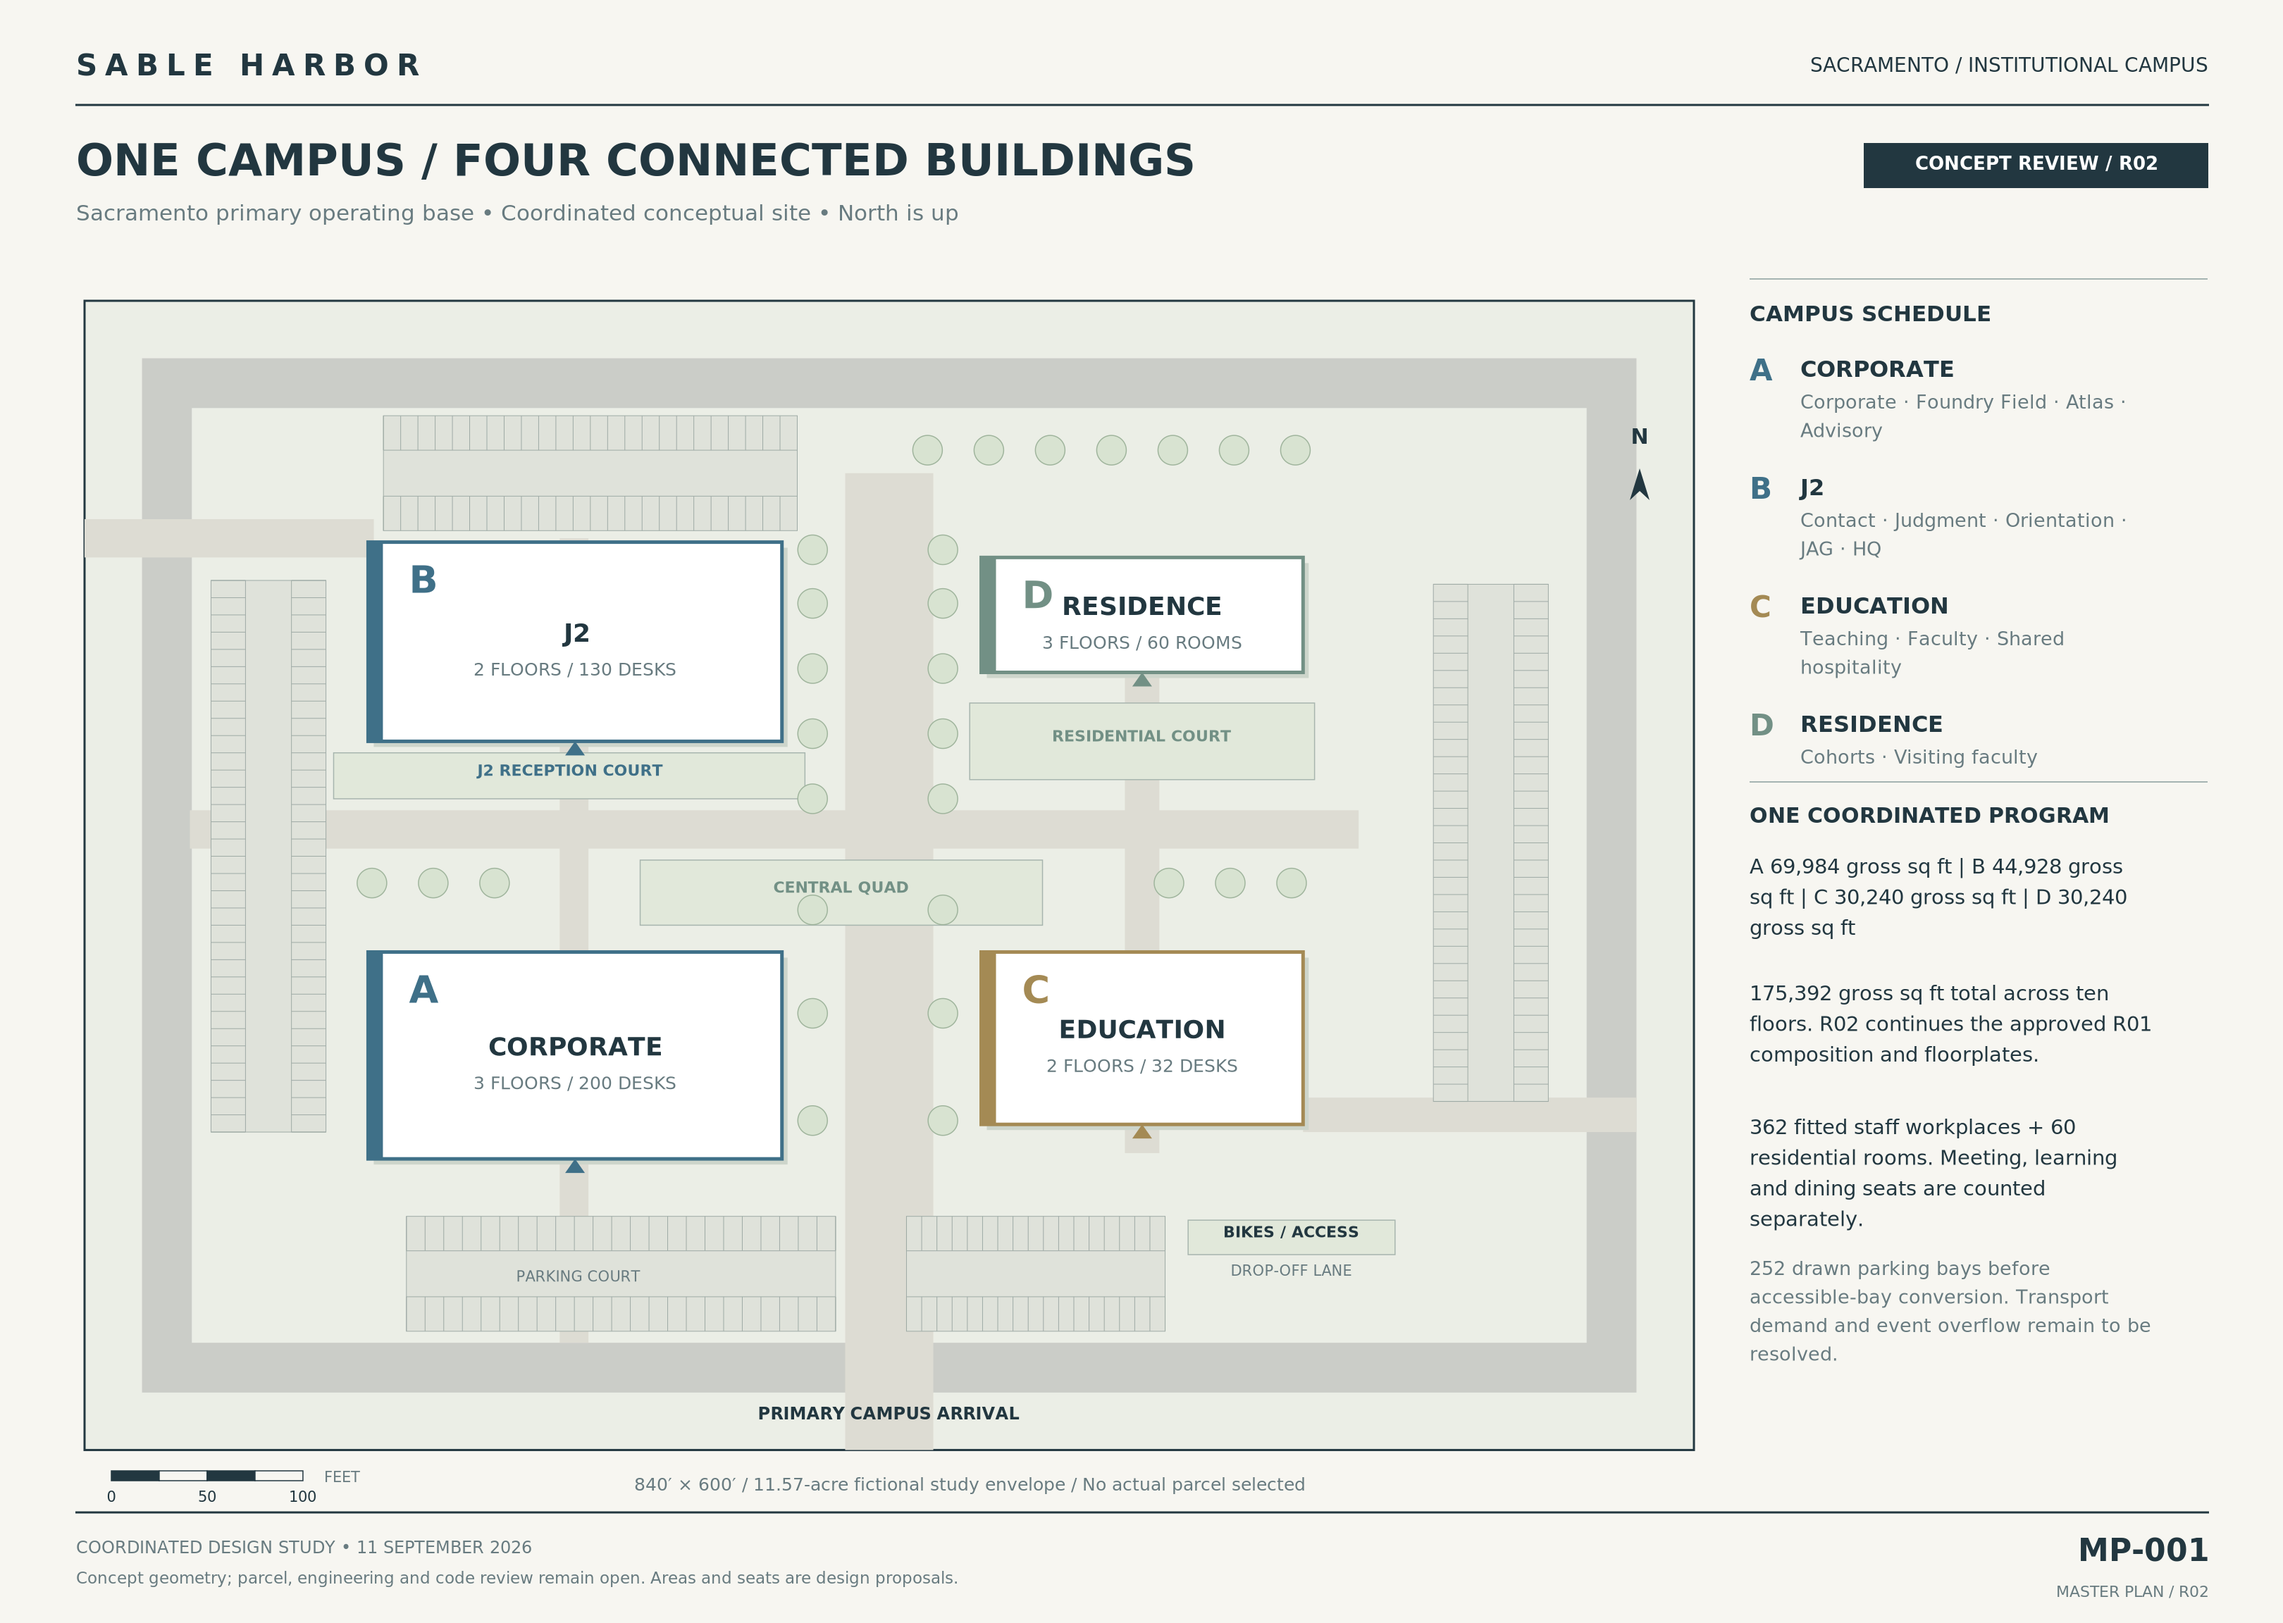
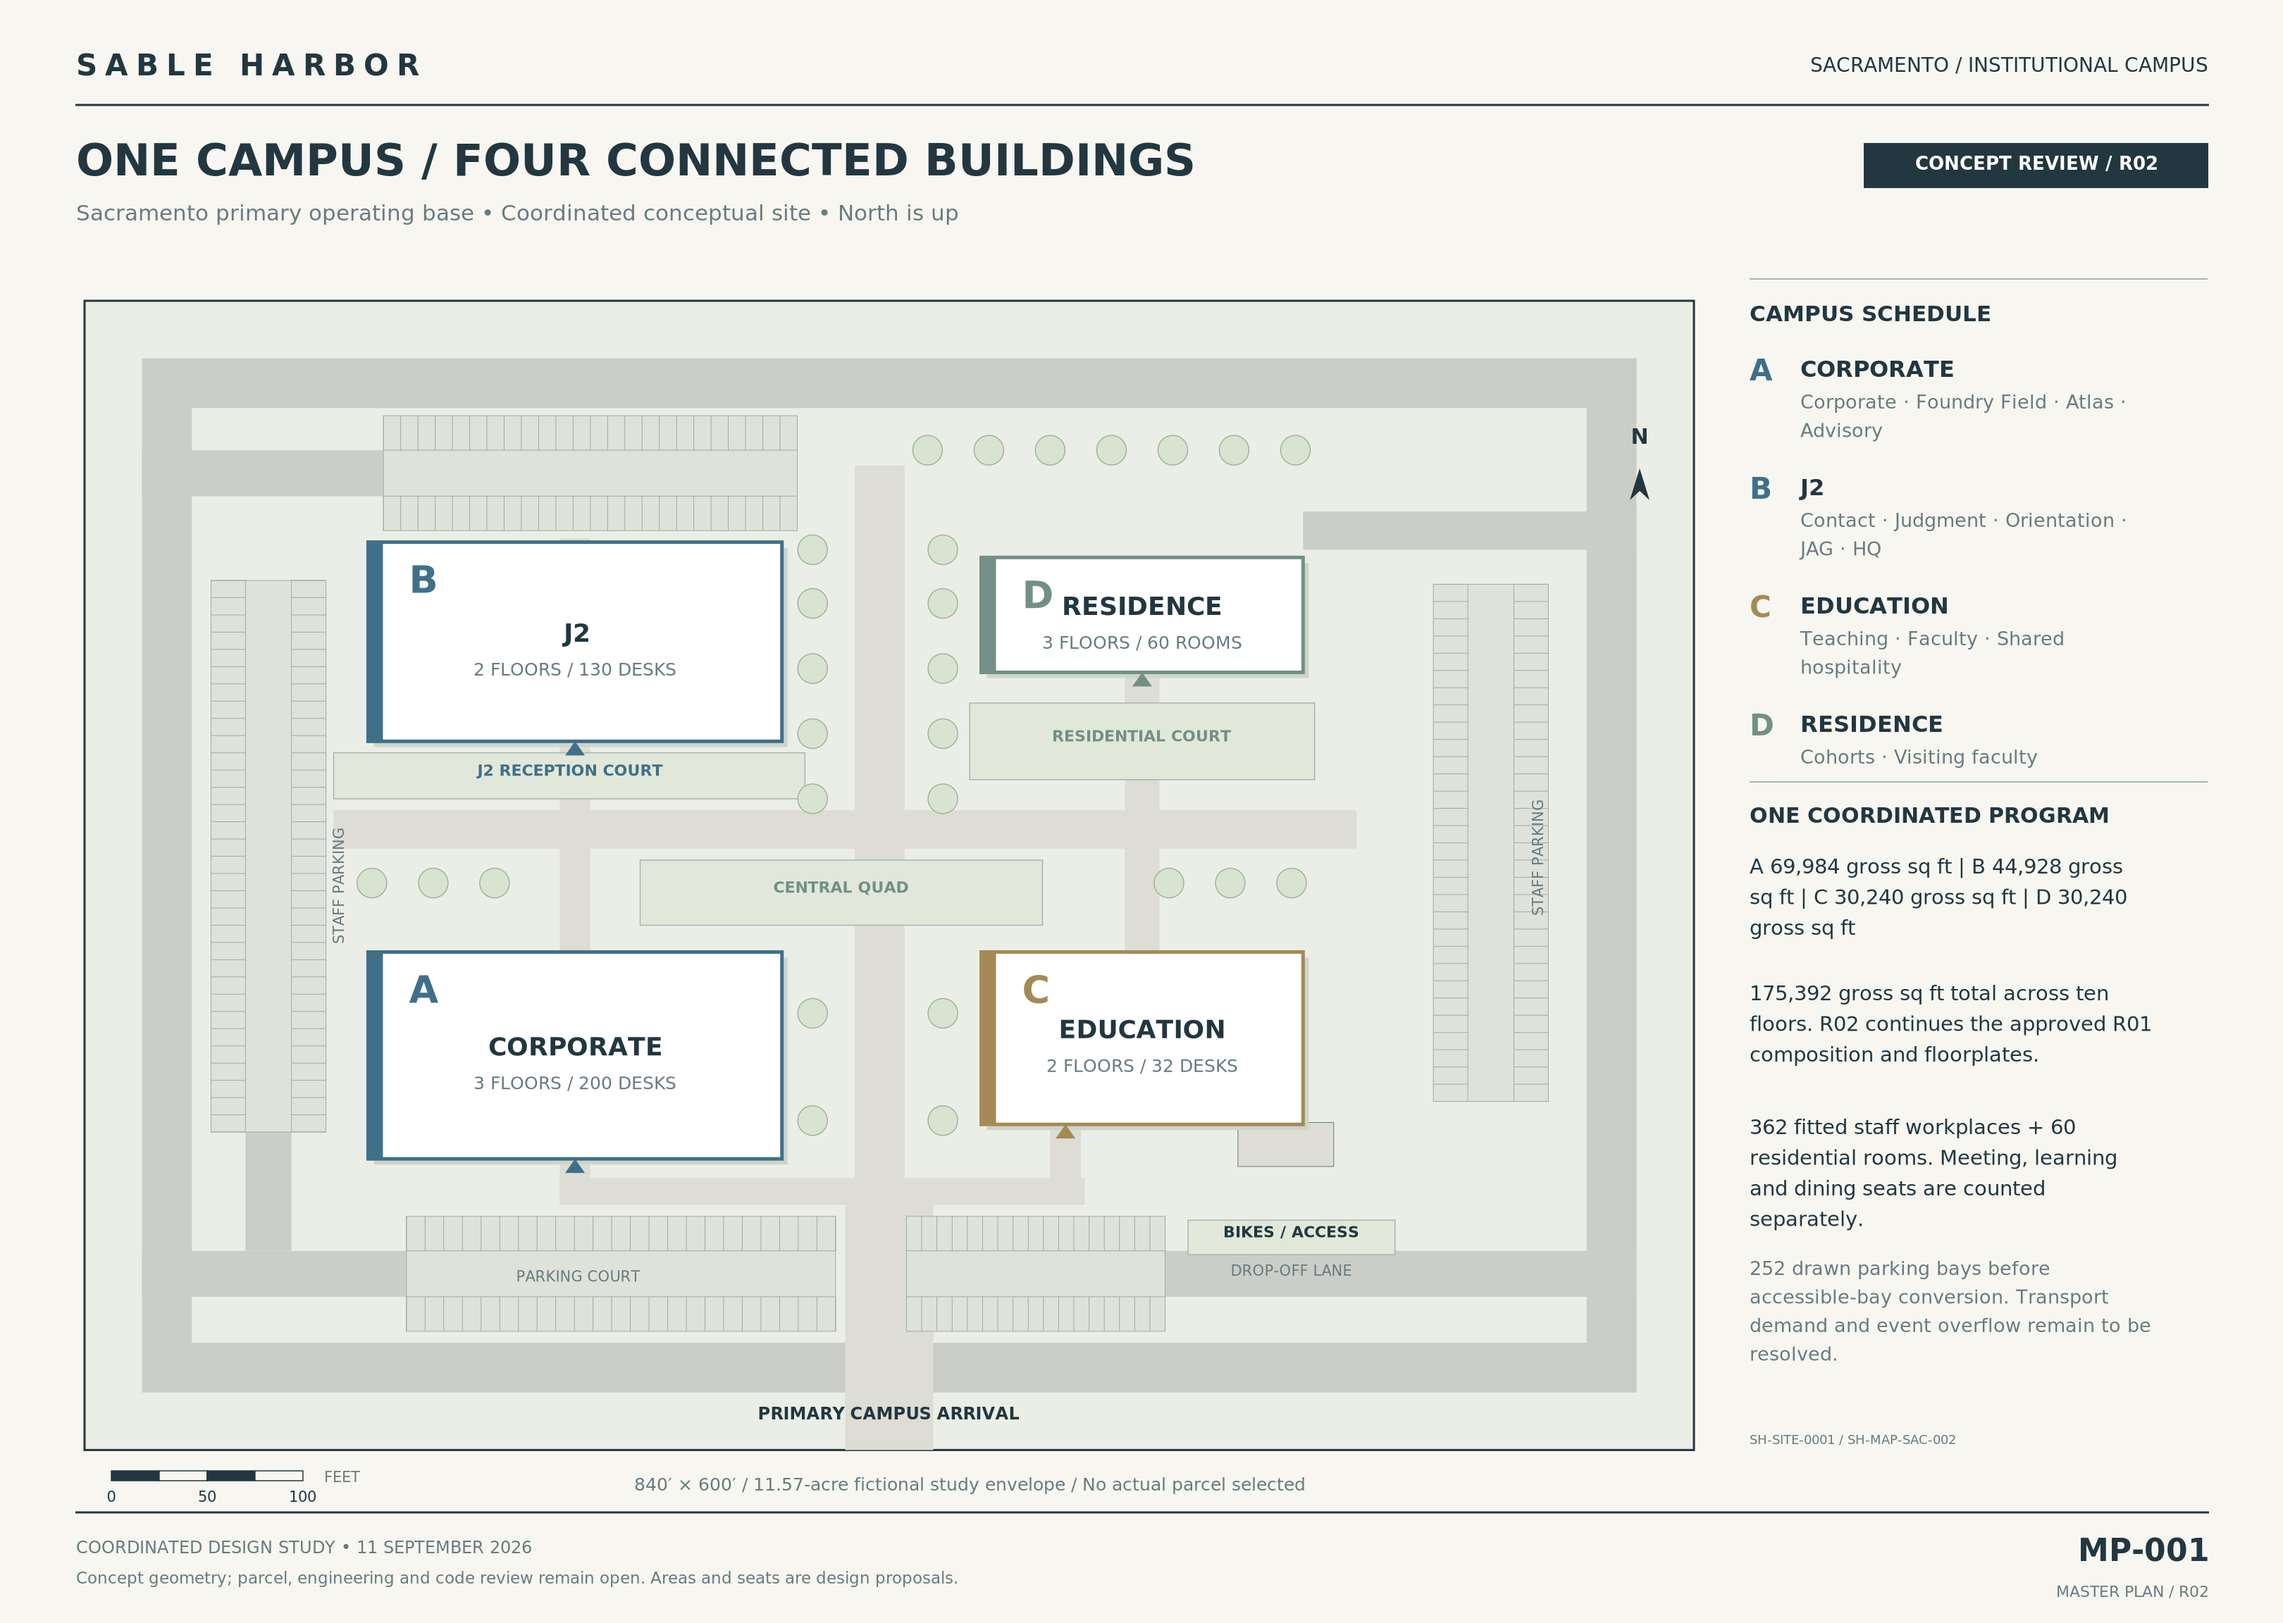
qa: pass first R02 master against four approved R01 references

diff --git a/geospatial/facilities/qa/R01_FIRST_GATE_REVIEW.md b/geospatial/facilities/qa/R01_FIRST_GATE_REVIEW.md
@@ -1,14 +1,13 @@
-# First R02 successor gate — correction required
+# R01 first successor master — passed
 
-The first master retains the four-building composition and sheet architecture, but the fidelity gate is not passed. All four originals and the successor were inspected individually at full resolution; four full-resolution side-by-side images and a master overlay are saved alongside this report.
+The fifth candidate for SH-MAP-SAC-002 passes the first-successor visual gate. The exact PNG, SVG and PDF are retained as `R01_FIRST_CANDIDATE.*`; hashes, build inputs, corrected findings and intentional differences are in [R01_FIRST_GATE_REVIEW.json](R01_FIRST_GATE_REVIEW.json). The original failed review remains available at commit `51d92e1`.
 
-- **R01-G01 — Typography fallback:** fc-match DejaVu Sans returns Liberation Sans. Title ink width1319 vs1585px; title height43 vs51px. Register deterministic matching fonts and retune title/wordmark sizing.
-- **R01-G02 — Subtitle position:** Current subtitle ink y321–350 vs approved290–318; move baseline up31px.
-- **R01-G03 — Site palette:** Sitefield/road overrides differ from measured#ebeee6/#cbcdc8; apply exact palette.
-- **R01-G04 — Building accent strips:** R01 blue/sage/gold left facade strips are absent; restore without changing footprint.
-- **R01-G05 — South arrival and parking:** Current continuous south parking strip crosses central primaryarrival. R01 has distinct west/eastblocks and gap; restore route, parkingcourt and dropoff labels and do not assert252 after altering counts without recount.
-- **R01-G06 — Access composition:** Current west lateral spur reaches siteboundary; original access remains perimeterconnected inside. Original northeast service connection and south dropoff/pedestrian branches missing. Preserve R01 topology or document intentional functional changes.
-- **R01-G07 — Schedule hierarchy:** Coordinated-program body changed from navy to muted and bodywrap differs materially due fallbackfont; restore original factual contrast.
-- **R01-G08 — Trees and support geometry:** Several treepositions shift into centralquad and original small Education service rectangle omitted; restore measured baseline or explicitly justify changed landscape/service design.
+All four approved originals were reviewed at their original 3240 × 2304 resolution, then compared with the final candidate in four saved side-by-side images. The master was also reviewed in a 50% overlay. The candidate PNG and independently rasterized PDF were inspected at 3240 × 2304. The SVG is the editable vector source for the reviewed drawing.
 
-Intentional changes accepted in principle: R02 revision markers, updated successor narrative retaining approved totals, and newly editable SVG/PDF derivatives. These do not approve the unfinished drawings. No bulk floor generation under this gate until unintended drift is corrected.
+Corrections include bundled matching DejaVu fonts, restored subtitle baseline and exact palette, building accent strips, split south parking and clear arrival, restored road and walking connections, darker program text, and restored Education service geometry. Education’s public entrance is 44 ft east of its west wall (campus x512 ft); the x504–520 ft public path meets the bridge ending at x522 ft. Service access aligns separately with its apron.
+
+Intentional derivative differences are R02 markers and continuity prose, a subordinate stable-ID caption, small type-tracking/label-position/wrapping differences, simplified tree circles and regularized planting, and south parking segmentation preserving 252 total bays. Original reference bytes are unchanged. The source package remains conceptual, with no actual parcel or construction status implied.
+
+The four buildings, ten floors, 175,392 gross sq ft, 362 workplaces and 60 residential rooms preserve the approved baseline. Workplaces and rooms remain separate from people, learning and meeting capacity.
+
+This gate permits subsequent sheet generation only. Every subsequent floor and atlas surface still requires its own numerical and visual QA; the earlier 63-sheet review does not apply to R02.

diff --git a/geospatial/facilities/qa/R01_REVIEW_CHECKLIST.md b/geospatial/facilities/qa/R01_REVIEW_CHECKLIST.md
@@ -2,7 +2,7 @@
 
 All four immutable approved PNGs were inspected at their original 3240 × 2304 resolution, and the complete handover and controlling visual addendum were read. [R01_VISUAL_TOKENS.json](R01_VISUAL_TOKENS.json) records exact source hashes, pixel colors, geometry measurements, and explicitly approximate typography. Font identification is a visual estimate; it is not recovered source metadata.
 
-The former 63-sheet visual approval does **not** apply to R02 or establish fidelity to these recovered originals. The first successor is pending review. Bulk floor generation must wait for the first-successor comparison required by the addendum.
+The former 63-sheet visual approval does **not** apply to R02 or establish fidelity to these recovered originals. The fifth first-master candidate passed the required comparison; see [hash-bound gate](R01_FIRST_GATE_REVIEW.json). Bulk generation may proceed. This is not a pass for unreviewed floor sheets.
 
 Review the first successor next to **each of all four originals at full resolution**, with a master-plan overlay and a durable side-by-side artifact. Check:
 
